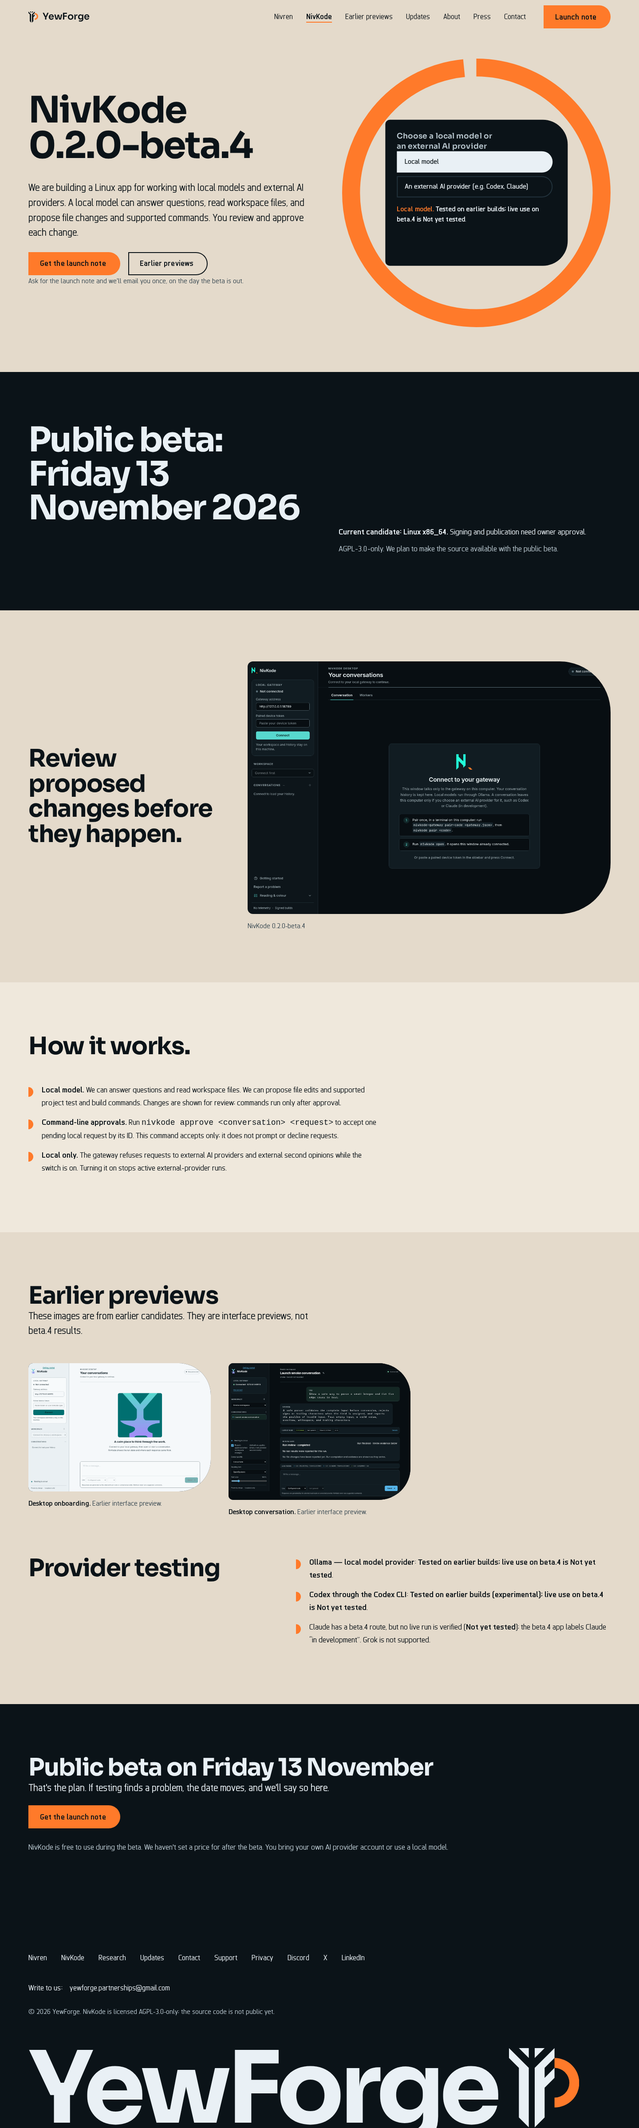
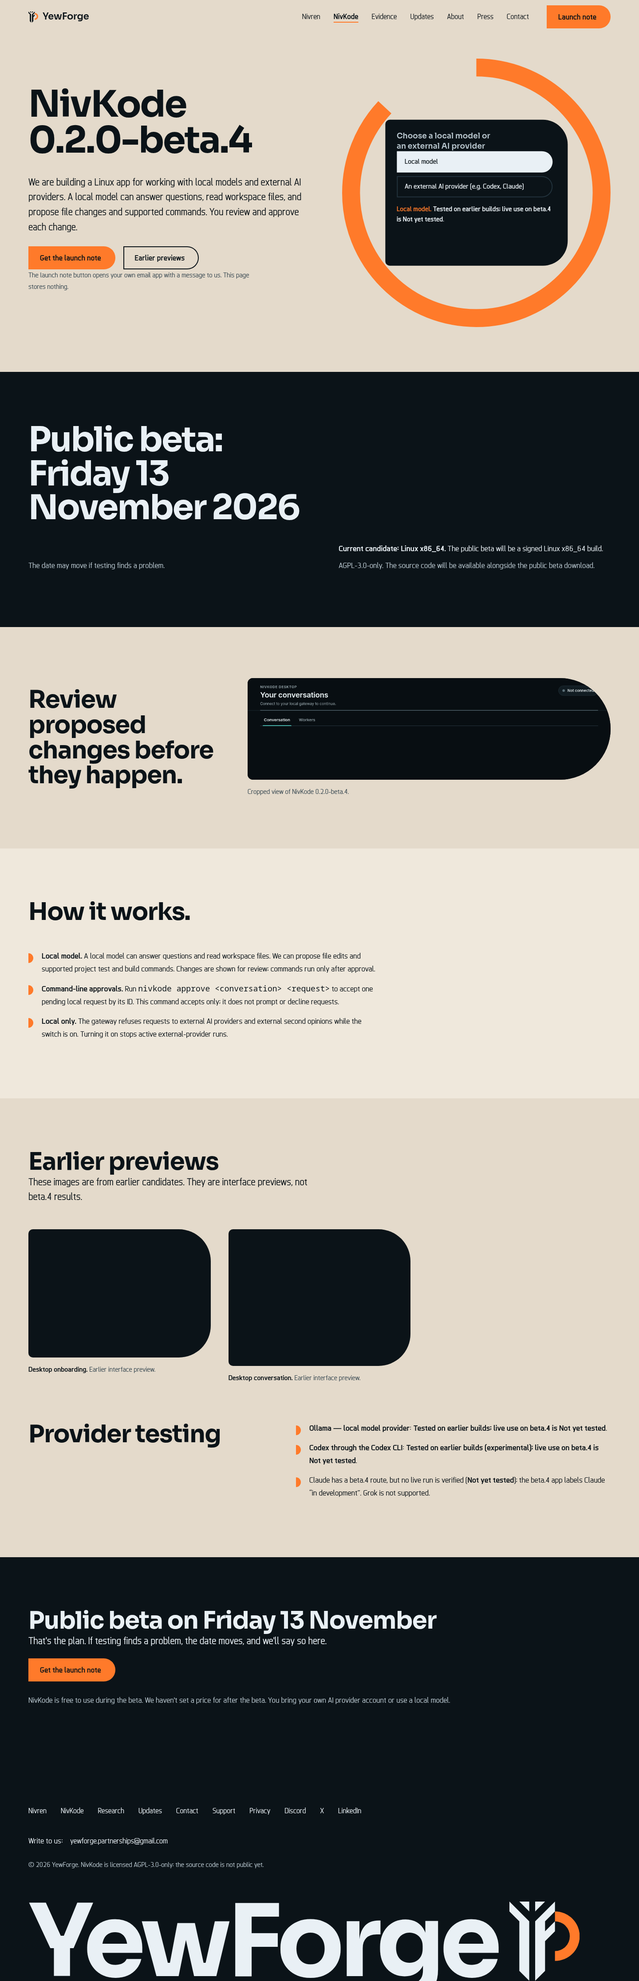
Rework site copy for NivKode beta.4

diff --git a/nivren.html b/nivren.html
@@ -4,19 +4,19 @@
 <meta charset="utf-8">
 <meta name="viewport" content="width=device-width, initial-scale=1">
 <title>Nivren | AI research and development by YewForge</title>
-<meta name="description" content="We are developing Nivren to coordinate specialist models, memory, tools and applications. These are design goals; broader integrated behaviour is still planned. NivKode 0.1.0 is a review candidate; release approval and publication are pending. The launch target is Friday 13 November 2026 and may move if testing finds issues.">
+<meta name="description" content="We are developing Nivren to coordinate specialist models, memory, tools and applications. These are design goals; broader integrated behaviour is still planned. NivKode 0.2.0-beta.4 is the current Linux x86_64 candidate; the public beta will be a signed Linux x86_64 build. The launch target is Friday 13 November 2026 and may move if testing finds issues.">
 <link rel="canonical" href="https://yewforge-digital.co.uk/nivren.html">
 <link rel="icon" href="favicon.ico" sizes="32x32">
 <link rel="icon" type="image/svg+xml" href="favicon.svg">
 <link rel="apple-touch-icon" href="apple-touch-icon.png">
 <meta property="og:title" content="Nivren | AI research and development by YewForge">
-<meta property="og:description" content="We are developing Nivren to coordinate specialist models, memory, tools and applications. These are design goals; broader integrated behaviour is still planned. NivKode 0.1.0 is a review candidate; release approval and publication are pending. The launch target is Friday 13 November 2026 and may move if testing finds issues.">
+<meta property="og:description" content="We are developing Nivren to coordinate specialist models, memory, tools and applications. These are design goals; broader integrated behaviour is still planned. NivKode 0.2.0-beta.4 is the current Linux x86_64 candidate; the public beta will be a signed Linux x86_64 build. The launch target is Friday 13 November 2026 and may move if testing finds issues.">
 <meta property="og:url" content="https://yewforge-digital.co.uk/nivren.html">
 <meta property="og:type" content="website">
 <meta property="og:image" content="https://yewforge-digital.co.uk/assets/yewforge-og-20261023.png"><meta property="og:image:alt" content="YewForge mark and NivKode developer environment launch card"><meta property="og:image:width" content="1200"><meta property="og:image:height" content="630">
 <meta name="twitter:card" content="summary_large_image">
 <meta name="twitter:title" content="Nivren | AI research and development by YewForge">
-<meta name="twitter:description" content="We are developing Nivren to coordinate specialist models, memory, tools and applications. These are design goals; broader integrated behaviour is still planned. NivKode 0.1.0 is a review candidate; release approval and publication are pending. The launch target is Friday 13 November 2026 and may move if testing finds issues.">
+<meta name="twitter:description" content="We are developing Nivren to coordinate specialist models, memory, tools and applications. These are design goals; broader integrated behaviour is still planned. NivKode 0.2.0-beta.4 is the current Linux x86_64 candidate; the public beta will be a signed Linux x86_64 build. The launch target is Friday 13 November 2026 and may move if testing finds issues.">
 <meta name="twitter:image" content="https://yewforge-digital.co.uk/assets/yewforge-og-20261023.png"><meta name="twitter:image:alt" content="YewForge mark and NivKode developer environment launch card">
 <script type="application/ld+json">
 {
@@ -32,7 +32,7 @@
         "https://x.com/YewForgeDigital",
         "https://www.instagram.com/yewforgedigital/"
       ],
-      "description": "We are developing Nivren to coordinate specialist models, memory, tools and applications. These are design goals; broader integrated behaviour is still planned. NivKode 0.1.0 is a review candidate; release approval and publication are pending. The launch target is Friday 13 November 2026 and may move if testing finds issues."
+      "description": "We are developing Nivren to coordinate specialist models, memory, tools and applications. These are design goals; broader integrated behaviour is still planned. NivKode 0.2.0-beta.4 is the current Linux x86_64 candidate; the public beta will be a signed Linux x86_64 build. The launch target is Friday 13 November 2026 and may move if testing finds issues."
     },
     {
       "@type": "Thing",
@@ -88,7 +88,7 @@
 </div></section>
 <section class="sec" aria-labelledby="status-h"><div class="wrap">
 <div class="split"><div><h2 class="h2" id="status-h">Status, honestly.</h2></div><div class="">
-<table class="facts"><caption class="vh">Status at a glance</caption><tbody><tr><th scope="row">Workshop interfaces &amp; telemetry</th><td>working</td></tr><tr><th scope="row">Evidence &amp; project-state records</th><td>working</td></tr><tr><th scope="row">Orchestration &amp; memory continuity</th><td>in development</td></tr><tr><th scope="row">Broader integrated behaviour</th><td>planned</td></tr><tr><th scope="row">Nivren Home (NivDroid)</th><td>Internal test build</td></tr><tr><th scope="row">NivKode</th><td>0.1.0 · review candidate</td></tr><tr><th scope="row">NivMac</th><td>Direction; no public build</td></tr><tr><th scope="row">Nivren Quark</th><td>Planned</td></tr></tbody></table>
+<table class="facts"><caption class="vh">Status at a glance</caption><tbody><tr><th scope="row">Workshop interfaces &amp; telemetry</th><td>working</td></tr><tr><th scope="row">Evidence &amp; project-state records</th><td>working</td></tr><tr><th scope="row">Orchestration &amp; memory continuity</th><td>in development</td></tr><tr><th scope="row">Broader integrated behaviour</th><td>planned</td></tr><tr><th scope="row">Nivren Home (NivDroid)</th><td>Internal test build</td></tr><tr><th scope="row">NivKode</th><td>0.2.0-beta.4 · Linux x86_64 candidate</td></tr><tr><th scope="row">NivMac</th><td>Direction; no public build</td></tr><tr><th scope="row">Nivren Quark</th><td>Planned</td></tr></tbody></table>
 </div></div>
 </div></section>
 <div class="band--char updates" role="region" aria-label="Latest updates"><div class="wrap"><span class="label">Latest updates</span><div data-yf-updates></div></div></div>
@@ -104,7 +104,7 @@
 <section class="sec band--paper" id="family" aria-labelledby="family-h"><div class="wrap">
 <div class="sec-head"><h2 class="h2" id="family-h">The Nivren family.</h2></div>
 <ul class="items items--4">
-<li><h3>NivKode</h3><p class="state">0.1.0 · review candidate</p><p>NivKode 0.1.0 is a review candidate and remains in testing. Release approval and publication are pending. The launch target is <time datetime="2026-11-13">Friday 13 November 2026</time> and may move if testing finds issues.</p><p>The Harmony contributor licence agreement is a draft and is not operative.</p></li>
+<li><h3>NivKode</h3><p class="state">0.2.0-beta.4 · Linux x86_64 candidate</p><p>NivKode 0.2.0-beta.4 is the current Linux x86_64 candidate. The public beta will be a signed Linux x86_64 build. The launch target is <time datetime="2026-11-13">Friday 13 November 2026</time> and may move if testing finds issues.</p><p>The Harmony contributor licence agreement is a draft and is not operative.</p></li>
 <li><h3>Nivren Home (NivDroid)</h3><p class="state">Internal test build</p><p>Nivren Home is the internal test build for the NivDroid direction. It is not a public build.</p></li>
 <li><h3>NivMac</h3><p class="state">Direction; no public build</p><p>A desktop direction for capable older hardware. There is no public build.</p></li>
 <li><h3>Nivren Quark</h3><p class="state">Planned</p><p>Small local models, NQ-0.5B, NQ-1B and NQ-3B, each to be published with its provenance label.</p></li>

diff --git a/index.html b/index.html
@@ -6,19 +6,19 @@
   <meta charset="UTF-8" />
   <meta name="viewport" content="width=device-width, initial-scale=1.0" />
   <title>YewForge | Home of Nivren</title>
-  <meta name="description" content="We build Nivren and share the evidence behind its development. NivKode 0.2.0-beta.4 is the current Linux x86_64 candidate. The public beta target is Friday 13 November 2026 and may move if testing finds issues." />
+  <meta name="description" content="We build Nivren and share the evidence behind its development. NivKode 0.2.0-beta.4 is the current Linux x86_64 candidate. The public beta target is Friday 13 November 2026; the date may move if testing finds a problem." />
   <link rel="icon" href="favicon.ico" sizes="32x32">
   <link rel="icon" type="image/svg+xml" href="favicon.svg">
   <link rel="apple-touch-icon" href="apple-touch-icon.png">
   <link rel="canonical" href="https://yewforge-digital.co.uk/" />
   <meta property="og:title" content="YewForge | Home of Nivren">
-  <meta property="og:description" content="We build Nivren and share the evidence behind its development. NivKode 0.2.0-beta.4 is the current Linux x86_64 candidate. The public beta target is Friday 13 November 2026 and may move if testing finds issues.">
+  <meta property="og:description" content="We build Nivren and share the evidence behind its development. NivKode 0.2.0-beta.4 is the current Linux x86_64 candidate. The public beta target is Friday 13 November 2026; the date may move if testing finds a problem.">
   <meta property="og:url" content="https://yewforge-digital.co.uk/" />
   <meta property="og:type" content="website" />
   <meta property="og:image" content="https://yewforge-digital.co.uk/assets/yewforge-og-20261023.png"><meta property="og:image:alt" content="YewForge mark and NivKode developer environment launch card"><meta property="og:image:width" content="1200"><meta property="og:image:height" content="630">
   <meta name="twitter:card" content="summary_large_image">
   <meta name="twitter:title" content="YewForge | Home of Nivren">
-  <meta name="twitter:description" content="We build Nivren and share the evidence behind its development. NivKode 0.2.0-beta.4 is the current Linux x86_64 candidate. The public beta target is Friday 13 November 2026 and may move if testing finds issues.">
+  <meta name="twitter:description" content="We build Nivren and share the evidence behind its development. NivKode 0.2.0-beta.4 is the current Linux x86_64 candidate. The public beta target is Friday 13 November 2026; the date may move if testing finds a problem.">
   <meta name="twitter:image" content="https://yewforge-digital.co.uk/assets/yewforge-og-20261023.png"><meta name="twitter:image:alt" content="YewForge mark and NivKode developer environment launch card">
   <script type="application/ld+json">
 {
@@ -34,7 +34,7 @@
         "https://x.com/YewForgeDigital",
         "https://www.instagram.com/yewforgedigital/"
       ],
-      "description": "We build Nivren and share the evidence behind its development. NivKode 0.2.0-beta.4 is the current Linux x86_64 candidate. The public beta target is Friday 13 November 2026 and may move if testing finds issues."
+      "description": "We build Nivren and share the evidence behind its development. NivKode 0.2.0-beta.4 is the current Linux x86_64 candidate. The public beta target is Friday 13 November 2026; the date may move if testing finds a problem."
     },
     {
       "@type": "Thing",
@@ -113,7 +113,7 @@
   <div class="wrap">
     <p class="bigdate"><span class="vh">NivKode launch target: </span><time datetime="2026-11-13">Friday 13 November 2026</time></p>
     <div>
-      <p><strong>NivKode 0.2.0-beta.4 is the current Linux x86_64 candidate.</strong> Signing and publication need owner approval. The public beta target is Friday 13 November 2026 and may move if testing finds issues.</p>
+      <p><strong>NivKode 0.2.0-beta.4 is the current Linux x86_64 candidate.</strong> The public beta will be a signed Linux x86_64 build. The public beta target is Friday 13 November 2026 and may move if testing finds issues.</p>
       <p class="muted"><a href="nivkode/">What NivKode is, and the launch note</a></p>
     </div>
   </div>
@@ -130,7 +130,7 @@
       <thead class="vh"><tr><th scope="col">Module</th><th scope="col">Status</th><th scope="col">What it is</th></tr></thead>
       <tbody>
         <tr><th scope="row">Nivren</th><td class="st">In active development</td><td><p>We are developing Nivren around specialist models, memory and tools, with inspectable state and human approval as design goals.</p><p><a href="nivren.html">About Nivren</a></p></td></tr>
-        <tr><th scope="row">NivKode</th><td class="st">0.2.0-beta.4 · Linux x86_64 candidate</td><td><p>NivKode 0.2.0-beta.4 is the current Linux x86_64 candidate. Signing and publication need owner approval.</p><p>Public beta target: Friday 13 November 2026; may move if testing finds issues. <a href="nivkode/">About NivKode</a></p></td></tr>
+        <tr><th scope="row">NivKode</th><td class="st">0.2.0-beta.4 · Linux x86_64 candidate</td><td><p>NivKode 0.2.0-beta.4 is the current Linux x86_64 candidate. The public beta will be a signed Linux x86_64 build.</p><p>Public beta target: Friday 13 November 2026. The date may move if testing finds a problem. <a href="nivkode/">About NivKode</a></p></td></tr>
         <tr><th scope="row">NivDroid</th><td class="st">Internal test build</td><td><p>Nivren Home is the NivDroid internal test build. It is not a public build.</p></td></tr>
         <tr><th scope="row">NivMac</th><td class="st">Direction; no public build</td><td><p>A lightweight, network-connected desktop OS that gives capable older hardware a modern working life. No build yet.</p></td></tr>
         <tr><th scope="row">Nivren Quark</th><td class="st">Planned</td><td><p>Small local models in three planned sizes. Each will ship with its provenance label, or not at all. NQ-0.5B &middot; NQ-1B &middot; NQ-3B</p></td></tr>

diff --git a/nivkode/index.html b/nivkode/index.html
@@ -27,7 +27,7 @@
       <ul>
         <li><a href="../nivren.html">Nivren</a></li>
         <li><a href="../nivkode/" aria-current="page">NivKode</a></li>
-        <li><a href="#evidence">Earlier previews</a></li>
+        <li><a href="../index.html#evidence">Evidence</a></li>
         <li><a href="../updates/">Updates</a></li>
         <li><a href="../about.html">About</a></li>
         <li><a href="../press/">Press</a></li>
@@ -49,7 +49,7 @@
             <a class="btn btn--primary" href="../contact.html" data-mail data-subject="NivKode launch note" data-body="Hello, please send me the NivKode launch note.">Get the launch note</a>
             <a class="btn" href="#evidence">Earlier previews</a>
           </div>
-          <p class="assure">Ask for the launch note and we'll email you once, on the day the beta is out.</p>
+          <p class="assure">The launch note button opens your own email app with a message to us. This page stores nothing.<noscript> Without scripts, write to yewforge.partnerships at gmail.com.</noscript></p>
         </div>
 
         <div class="stage stage--control">
@@ -71,10 +71,10 @@
 
     <section class="band--char datebar sec" aria-label="Launch target">
       <div class="wrap">
-        <p class="bigdate">Public beta: Friday 13 November 2026</p>
+        <div><p class="bigdate">Public beta: Friday 13 November 2026</p><p class="muted">The date may move if testing finds a problem.</p></div>
         <div>
-          <p><strong>Current candidate: Linux x86_64.</strong> Signing and publication need owner approval.</p>
-          <p class="muted">AGPL-3.0-only. We plan to make the source available with the public beta.</p>
+          <p><strong>Current candidate: Linux x86_64.</strong> The public beta will be a signed Linux x86_64 build.</p>
+          <p class="muted">AGPL-3.0-only. The source code will be available alongside the public beta download.</p>
         </div>
       </div>
     </section>
@@ -85,8 +85,8 @@
           <h2 class="h2" id="gate-title">Review proposed changes before they happen.</h2>
         </div>
         <figure class="fig">
-          <div class="crop"><img src="../assets/nivkode-beta4-desktop-20261101.png" width="1440" height="1000" alt="NivKode 0.2.0-beta.4 desktop interface."></div>
-          <figcaption>NivKode 0.2.0-beta.4</figcaption>
+          <div class="crop"><img src="../assets/nivkode-beta4-desktop-20261101-crop.png" width="1160" height="325" alt="Cropped view of the NivKode 0.2.0-beta.4 desktop interface."></div>
+          <figcaption>Cropped view of NivKode 0.2.0-beta.4.</figcaption>
         </figure>
       </div>
     </section>
@@ -97,7 +97,7 @@
           <h2 class="h2" id="what-title">How it works.</h2>
         </div>
         <ul class="ring-list prose">
-          <li><strong>Local model.</strong> We can answer questions and read workspace files. We can propose file edits and supported project test and build commands. Changes are shown for review; commands run only after approval.</li>
+          <li><strong>Local model.</strong> A local model can answer questions and read workspace files. We can propose file edits and supported project test and build commands. Changes are shown for review; commands run only after approval.</li>
           <li><strong>Command-line approvals.</strong> Run <code>nivkode approve &lt;conversation&gt; &lt;request&gt;</code> to accept one pending local request by its ID. This command accepts only; it does not prompt or decline requests.</li>
           <li><strong>Local only.</strong> The gateway refuses requests to external AI providers and external second opinions while the switch is on. Turning it on stops active external-provider runs.</li>
         </ul>
@@ -120,7 +120,7 @@
             <li><strong>Ollama — local model provider</strong>: <strong>Tested on earlier builds; live use on beta.4 is Not yet tested</strong>.</li>
             <li><strong>Codex through the Codex CLI</strong>: <strong>Tested on earlier builds (experimental); live use on beta.4 is Not yet tested</strong>.</li>
             <li>Claude has a beta.4 route, but no live run is verified (<strong>Not yet tested</strong>); the beta.4 app labels Claude “in development”. Grok is not supported.</li>
-              </ul>
+            </ul>
         </div>
       </div>
     </section>

diff --git a/about.html b/about.html
@@ -4,19 +4,19 @@
 <meta charset="utf-8">
 <meta name="viewport" content="width=device-width, initial-scale=1">
 <title>About YewForge | The company behind Nivren</title>
-<meta name="description" content="We build Nivren and publish what works, what remains experimental and what is planned. NivKode 0.1.0 is a review candidate; release approval and publication are pending.">
+<meta name="description" content="We build Nivren and publish what works, what remains experimental and what is planned. NivKode 0.2.0-beta.4 is the current Linux x86_64 candidate; the public beta will be a signed Linux x86_64 build.">
 <link rel="canonical" href="https://yewforge-digital.co.uk/about.html">
 <link rel="icon" href="favicon.ico" sizes="32x32">
 <link rel="icon" type="image/svg+xml" href="favicon.svg">
 <link rel="apple-touch-icon" href="apple-touch-icon.png">
 <meta property="og:title" content="About YewForge | The company behind Nivren">
-<meta property="og:description" content="We build Nivren and publish what works, what remains experimental and what is planned. NivKode 0.1.0 is a review candidate; release approval and publication are pending.">
+<meta property="og:description" content="We build Nivren and publish what works, what remains experimental and what is planned. NivKode 0.2.0-beta.4 is the current Linux x86_64 candidate; the public beta will be a signed Linux x86_64 build.">
 <meta property="og:url" content="https://yewforge-digital.co.uk/about.html">
 <meta property="og:type" content="website">
 <meta property="og:image" content="https://yewforge-digital.co.uk/assets/yewforge-og-20261023.png"><meta property="og:image:alt" content="YewForge mark and NivKode developer environment launch card"><meta property="og:image:width" content="1200"><meta property="og:image:height" content="630">
 <meta name="twitter:card" content="summary_large_image">
 <meta name="twitter:title" content="About YewForge | The company behind Nivren">
-<meta name="twitter:description" content="We build Nivren and publish what works, what remains experimental and what is planned. NivKode 0.1.0 is a review candidate; release approval and publication are pending.">
+<meta name="twitter:description" content="We build Nivren and publish what works, what remains experimental and what is planned. NivKode 0.2.0-beta.4 is the current Linux x86_64 candidate; the public beta will be a signed Linux x86_64 build.">
 <meta name="twitter:image" content="https://yewforge-digital.co.uk/assets/yewforge-og-20261023.png"><meta name="twitter:image:alt" content="YewForge mark and NivKode developer environment launch card">
 <link rel="preload" href="fonts/ember/sora-latin.woff2" as="font" type="font/woff2" crossorigin>
 <link rel="preload" href="fonts/ember/nivren-technical-latin.woff2" as="font" type="font/woff2" crossorigin>
@@ -52,7 +52,7 @@
 </div></section>
 <section class="sec" aria-labelledby="what-title"><div class="wrap">
 <div class="split"><div><h2 class="h2" id="what-title">A programme with several directions.</h2></div><div class="prose">
-<p>Nivren is in active development. <strong>Nivren Home (NivDroid)</strong> is an internal test build. <strong>NivKode 0.1.0</strong> is a review candidate; release approval and publication are pending. Its launch target is <time datetime="2026-11-13">Friday 13 November 2026</time> and may move if testing finds issues. NivMac remains a direction with no public build; Nivren Quark is planned.</p>
+<p>Nivren is in active development. <strong>Nivren Home (NivDroid)</strong> is an internal test build. <strong>NivKode 0.2.0-beta.4</strong> is the current Linux x86_64 candidate; the public beta will be a signed Linux x86_64 build. Its launch target is <time datetime="2026-11-13">Friday 13 November 2026</time> and may move if testing finds issues. NivMac remains a direction with no public build; Nivren Quark is planned.</p>
 <p>The aim is for Nivren to develop more intelligence of its own over time, while still using the best external models where they are the better tool, and always saying which is which.</p>
 <p>NivKode launch target: <time datetime="2026-11-13">Friday 13 November 2026</time> (moved from 2 November to give development and testing the time they need)</p>
 </div></div>

diff --git a/press/index.html b/press/index.html
@@ -59,7 +59,7 @@
 <section class="sec band--char" id="products" aria-labelledby="products-h"><div class="wrap">
 <div class="sec-head"><h2 class="h2" id="products-h">What each product is, and where it stands.</h2></div>
 <ul class="items items--2">
-<li><h3>NivKode</h3><p class="state">0.2.0-beta.4 · Linux x86_64 candidate</p><p>NivKode 0.2.0-beta.4 is the current Linux x86_64 candidate. Signing and publication need owner approval. The public beta target is <time datetime="2026-11-13">Friday 13 November 2026</time> and may move if testing finds issues.</p><p>Source licence: AGPL-3.0-only. The Harmony contributor licence agreement is a draft and is not operative.</p></li>
+<li><h3>NivKode</h3><p class="state">0.2.0-beta.4 · Linux x86_64 candidate</p><p>NivKode 0.2.0-beta.4 is the current Linux x86_64 candidate. The public beta will be a signed Linux x86_64 build. The public beta target is <time datetime="2026-11-13">Friday 13 November 2026</time>; the date may move if testing finds a problem.</p><p>Source licence: AGPL-3.0-only. The Harmony contributor licence agreement is a draft and is not operative.</p></li>
 <li><h3>Nivren</h3><p class="state">In active development</p><p>We are developing Nivren to coordinate specialist models, memory, tools and applications. These are design goals; broader integrated behaviour is still planned.</p></li>
 <li><h3>Nivren Home (NivDroid)</h3><p class="state">Internal test build</p><p>This is an internal test build. No public build is available.</p></li>
 <li><h3>NivDroid</h3><p class="state">In development</p><p>NivDroid is an Android OS in development.</p></li>

diff --git a/privacy.html b/privacy.html
@@ -57,7 +57,7 @@
 </div></section>
 <section class="sec" aria-labelledby="nivkode-title"><div class="wrap">
 <div class="split"><div><h2 class="h2" id="nivkode-title">Nivren and NivKode</h2></div><div class="prose">
-<p>In the NivKode desktop app, new conversations start on a local model when one is installed. When you choose an external AI provider for a conversation (Codex is the one we have run so far, and it is experimental; Claude and Grok are not yet tested), NivKode sends that conversation to the provider of the account you signed in with, under your own account and that provider's own privacy notice. Nothing leaves your machine unless you choose a provider.</p>
+<p>In the NivKode desktop app, new conversations start on a local model when one is installed. Codex has been run experimentally. Claude has a beta.4 route, but no live run is verified; the app labels Claude “in development”. Grok is not supported. When you choose an external AI provider, NivKode sends that conversation to the provider of the account you signed in with, under your own account and that provider's own privacy notice.</p>
 </div></div>
 </div></section>
 <section class="sec" aria-labelledby="contact-title"><div class="wrap">

diff --git a/css/ember.css b/css/ember.css
@@ -209,8 +209,6 @@ table.status td p { margin: 0 0 .4em; }
 .cols { display: grid; gap: clamp(24px, 4vw, 64px); grid-template-columns: minmax(0, 1fr) minmax(0, 1.3fr); }
 @media (max-width: 899px) { .cols { grid-template-columns: 1fr; } }
 .fig { margin: 0; }
-.owner-shot { min-height: 280px; display: grid; place-content: center; gap: 10px; padding: 32px; border: 1px dashed var(--ink-2); background: var(--paper); color: var(--ink); text-align: center; }
-.owner-shot span { color: var(--ink-2); }
 .fig figcaption { margin-top: 14px; font-size: 16px; color: var(--ink-2); max-width: 52em; }
 .fig figcaption strong { color: var(--ink); font-weight: 600; }
 .shots { display: grid; gap: clamp(24px, 3vw, 40px); grid-template-columns: repeat(3, minmax(0, 1fr)); }
